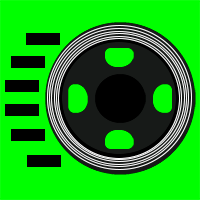
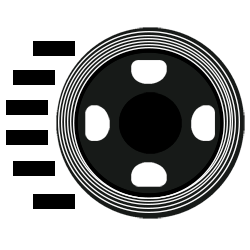
Some ui updates

diff --git a/Assets/Towers/Upgrades/fisherBearUpgrades/attackSpeedUpgrade.cs b/Assets/Towers/Upgrades/fisherBearUpgrades/attackSpeedUpgrade.cs
@@ -16,7 +16,7 @@ public class attackSpeedUpgrade : Upgrade
         this.path = 0;
         this.numberOnPath = 0;
         levelManager = GameObject.Find("levelManager");
-        Sprite abilityIcon = Resources.Load("rapidReels", typeof(Sprite)) as Sprite;
+        Sprite abilityIcon = Resources.Load("rapidReels2", typeof(Sprite)) as Sprite;
         this.icon = abilityIcon;
     }
 
